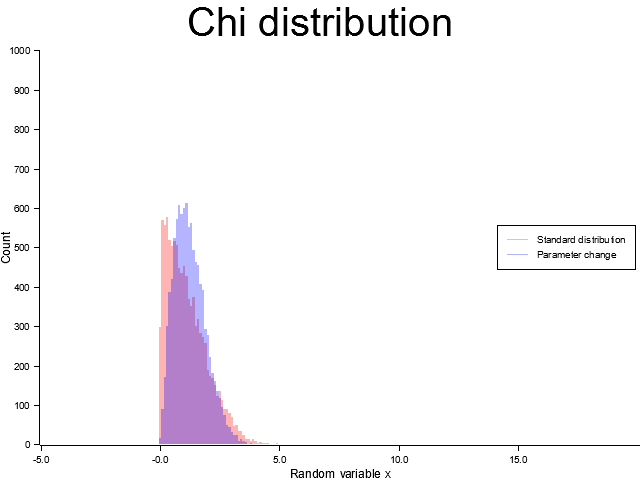
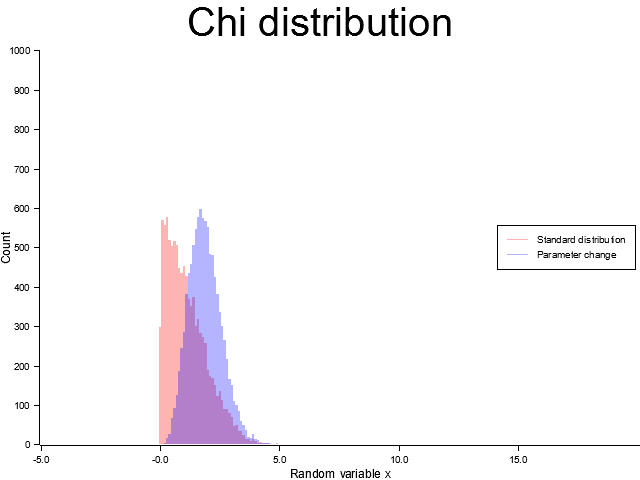
0.2.4h (修正) χ分布の引数指定の修正

Changed region(s): [[0.25, 0.4375, 0.4062, 0.9375]]

diff --git a/src/distributions/chi.rs b/src/distributions/chi.rs
@@ -8,12 +8,11 @@ impl Chi {
         let adjusted_seeds = crate::adjust_seeds!(seeds);
 
         Self {
-            xyzuv_alpha: create_state(adjusted_seeds[0]),
-            xyzuv0_alpha: create_state(adjusted_seeds[1]),
-            xyzuv1_alpha: create_state(adjusted_seeds[2]),
-            shape_alpha: 1_f64,
+            xyzuv_u_gamma: create_state(adjusted_seeds[0]),
+            xyzuv_n_0_gamma: create_state(adjusted_seeds[1]),
+            xyzuv_n_1_gamma: create_state(adjusted_seeds[2]),
 
-            xyzuv_beta: create_state(adjusted_seeds[3]),
+            xyzuv_uniform: create_state(adjusted_seeds[3]),
 
             degree_of_freedom: 1_f64,
         }
@@ -22,24 +21,26 @@ impl Chi {
     /// 乱数を計算する
     pub fn sample(&mut self) -> f64 {
         // アルゴリズム 3.82
-        if self.degree_of_freedom > 1_f64 {
-            (standard_gamma(
-                &mut self.xyzuv_alpha,
-                &mut self.xyzuv0_alpha,
-                &mut self.xyzuv1_alpha,
-                &self.shape_alpha,
-            ) * 2_f64)
-                .sqrt()
+        // step 1
+        let y = if self.degree_of_freedom > 1_f64 {
+            standard_gamma(
+                &mut self.xyzuv_u_gamma,
+                &mut self.xyzuv_n_0_gamma,
+                &mut self.xyzuv_n_1_gamma,
+                &self.degree_of_freedom,
+            ) * 2_f64
         } else {
             let y = standard_gamma(
-                &mut self.xyzuv_alpha,
-                &mut self.xyzuv0_alpha,
-                &mut self.xyzuv1_alpha,
+                &mut self.xyzuv_u_gamma,
+                &mut self.xyzuv_n_0_gamma,
+                &mut self.xyzuv_n_1_gamma,
                 &(3_f64 / 2_f64),
             ) * 2_f64;
-            let u = xorshift160_0_1_open(&mut self.xyzuv_beta);
-            (u.powi(2) * y * 2_f64).sqrt()
-        }
+            let u = xorshift160_0_1_open(&mut self.xyzuv_uniform);
+            u.powi(2) * y * 2_f64
+        };
+        // step 2
+        y.sqrt()
     }
 
     /// 確率変数のパラメータを変更する

diff --git a/src/lib.rs b/src/lib.rs
@@ -431,9 +431,9 @@ pub struct Erlang {
 /// println!("自由度 {}の乱数を生成する -> {}", degree_of_freedom, chi_square.sample());
 /// ```
 pub struct ChiSquare {
-    xyzuv_u_gamma: [u32; 5],     // 状態変数
+    xyzuv_u_gamma: [u32; 5],   // 状態変数
     xyzuv_n_0_gamma: [u32; 5], // 状態変数
-    xyzuv_n_1_gamma: [u32; 5],    // 状態変数
+    xyzuv_n_1_gamma: [u32; 5], // 状態変数
 
     xyzuv_uniform: [u32; 5], // 状態変数
 
@@ -452,14 +452,13 @@ pub struct ChiSquare {
 /// println!("自由度 {}の乱数を生成する -> {}", degree_of_freedom, chi.sample());
 /// ```
 pub struct Chi {
-    xyzuv_alpha: [u32; 5],  // 状態変数
-    xyzuv0_alpha: [u32; 5], // 状態変数
-    xyzuv1_alpha: [u32; 5], // 状態変数
-    shape_alpha: f64,
+    xyzuv_u_gamma: [u32; 5],   // 状態変数
+    xyzuv_n_0_gamma: [u32; 5], // 状態変数
+    xyzuv_n_1_gamma: [u32; 5], // 状態変数
 
-    xyzuv_beta: [u32; 5], // 状態変数
+    xyzuv_uniform: [u32; 5], // 状態変数
 
-    degree_of_freedom: f64, // 形状母数
+    degree_of_freedom: f64, // 形状母数 r ∈ N
 }
 
 /// F分布
